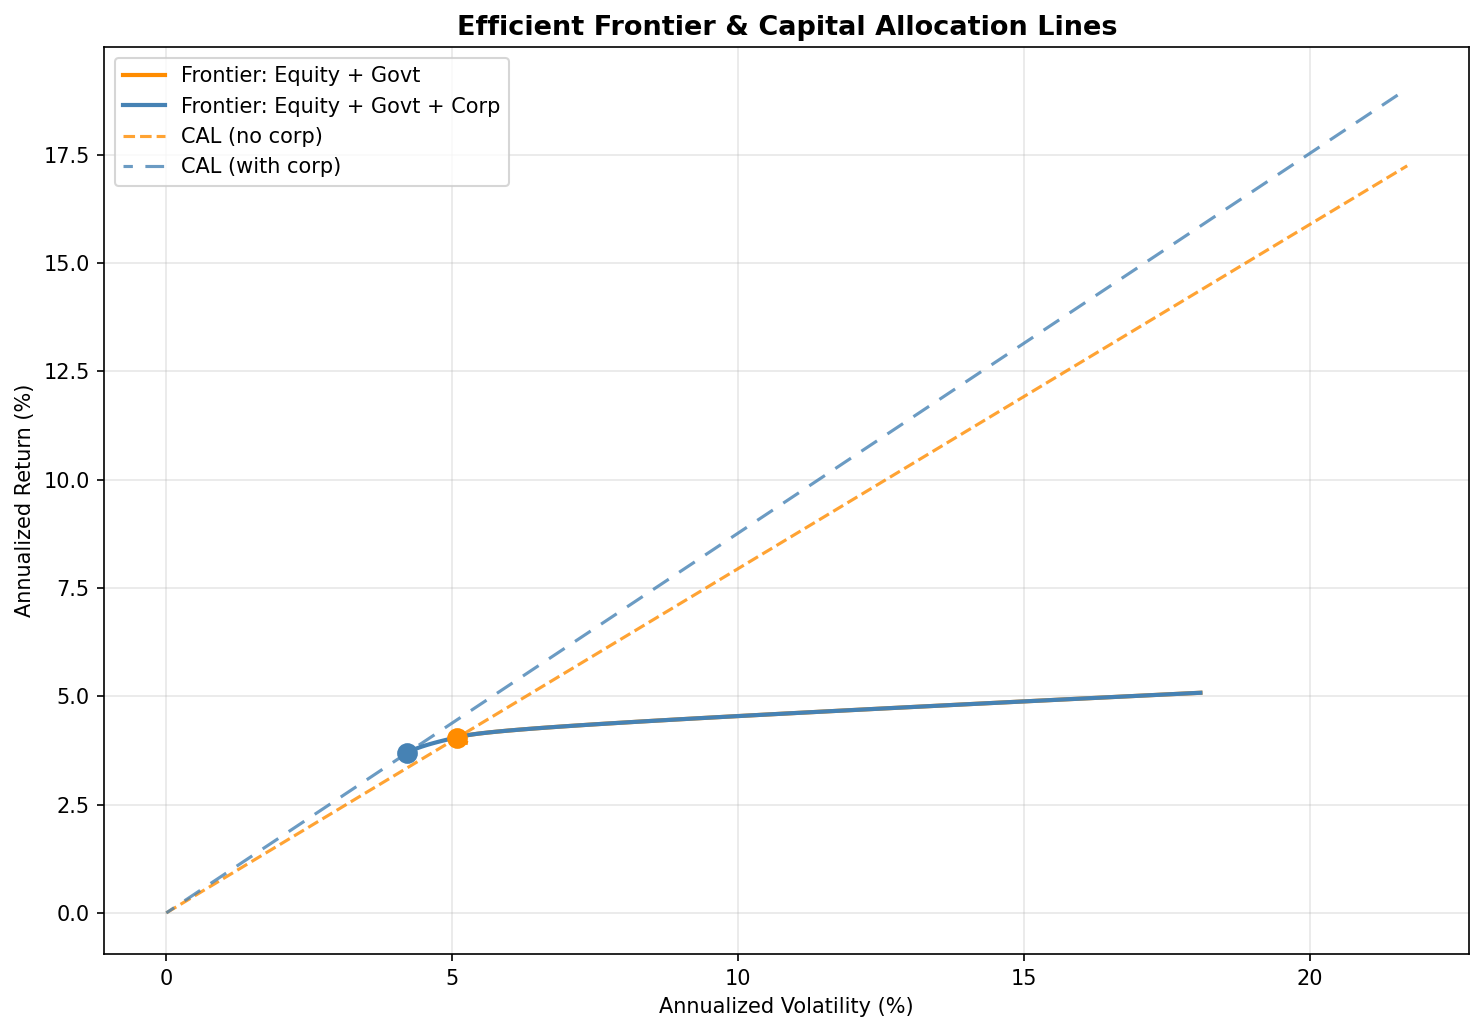
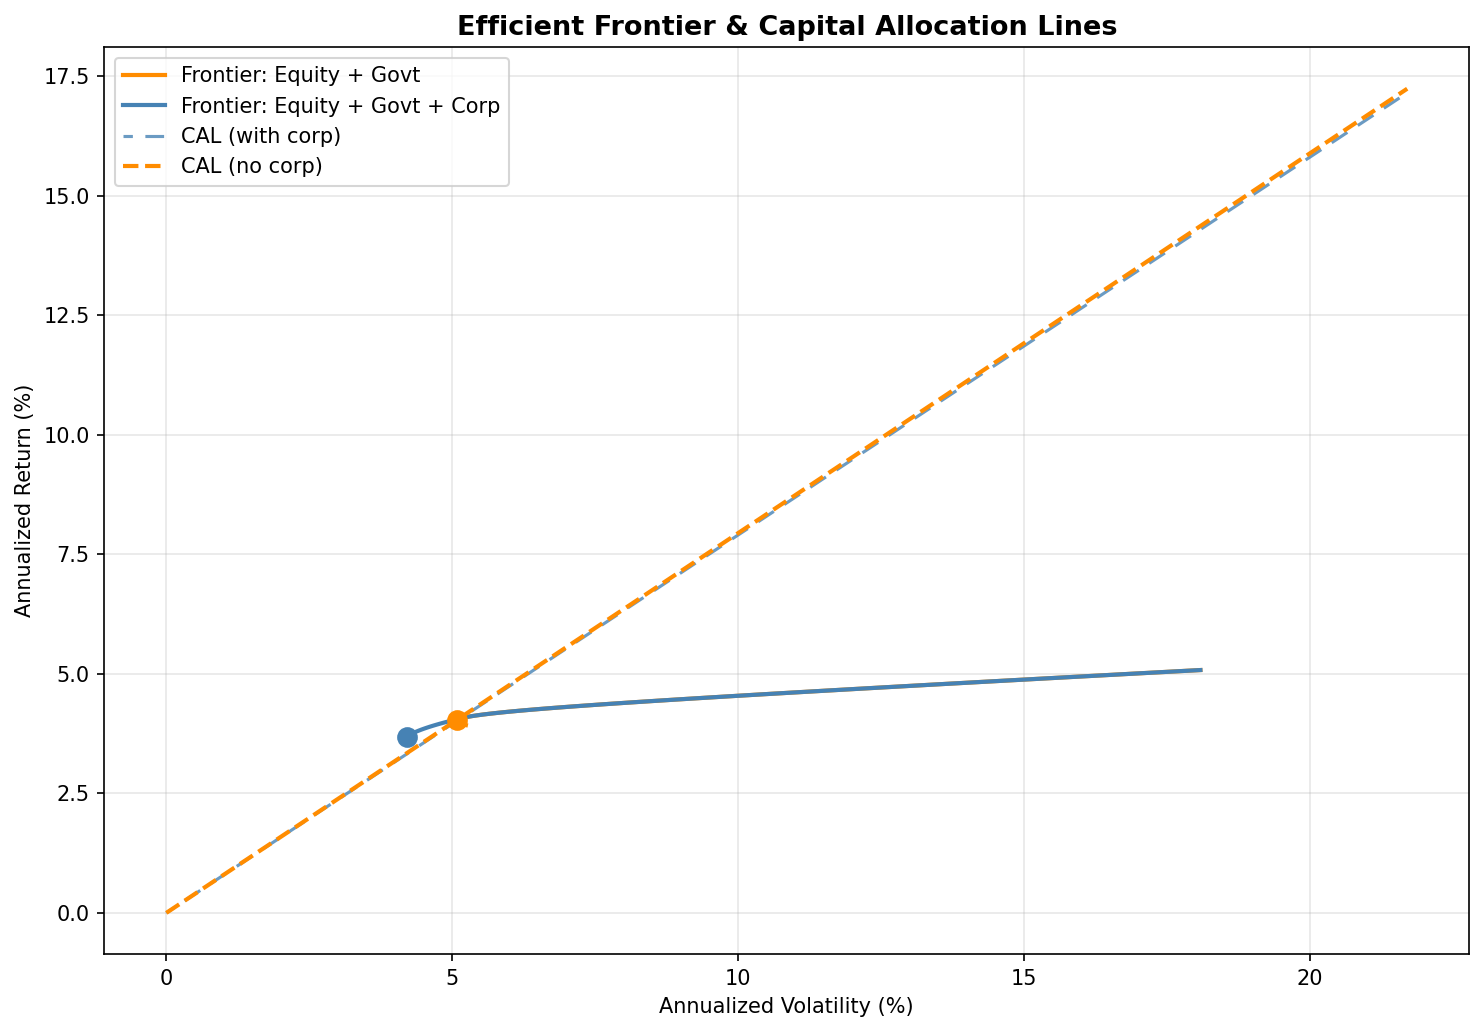
updated

diff --git a/src/Q5_equity_bond_portfolio.py b/src/Q5_equity_bond_portfolio.py
@@ -419,15 +419,15 @@ def extract_frontier(vols: np.ndarray, rets: np.ndarray) -> tuple:
     frontier = pd.DataFrame(frontier)
     return frontier["vol"].values, frontier["ret"].values
 
+def compute_exact_frontier(returns, assets, start_date=None, n_points=100):
 
-def compute_exact_frontier(returns, include_corp=True, n_points=100):
+    r = returns[assets]
 
-    if include_corp:
-        assets = ["equity", "govt_mid", "corp_ig"]
-    else:
-        assets = ["equity", "govt_mid"]
+    if start_date is not None:
+        r = r.loc[start_date:]
 
-    r = returns[assets].dropna()
+    r = r.dropna()
+
     mu = r.mean() * 12
     Sigma = r.cov() * 12
 
@@ -445,46 +445,41 @@ def compute_exact_frontier(returns, include_corp=True, n_points=100):
     target_returns = np.linspace(mu.min(), mu.max(), n_points)
 
     vols, rets = [], []
-
     prev_w = np.ones(n) / n
 
     for target in target_returns:
-
         constraints = constraints_base + [
             {'type': 'eq', 'fun': lambda w, target=target: portfolio_ret(w) - target}
         ]
 
-        res = minimize(
-            portfolio_vol,
-            prev_w,
-            bounds=bounds,
-            constraints=constraints
-        )
+        res = minimize(portfolio_vol, prev_w, bounds=bounds, constraints=constraints)
 
         if res.success:
             w_opt = res.x
             vols.append(portfolio_vol(w_opt) * 100)
             rets.append(portfolio_ret(w_opt) * 100)
             prev_w = w_opt
-        else:
-            prev_w = np.ones(n) / n
 
     return np.array(vols), np.array(rets)
-
 
 def plot_efficient_frontier(returns: pd.DataFrame) -> plt.Figure:
     fig, ax = plt.subplots(figsize=(10, 7))
 
-    # ── Monte Carlo clouds ──
-    vols_no, rets_no = compute_frontier_points(returns, include_corp=False)
-    vols_yes, rets_yes = compute_frontier_points(returns, include_corp=True)
+    # ✅ ADD THIS
+    common = returns[["equity", "govt_mid", "corp_ig"]].dropna()
+
+    # Monte Carlo
+    vols_no, rets_no = compute_frontier_points(common, include_corp=False)
+    vols_yes, rets_yes = compute_frontier_points(common, include_corp=True)
+
+    # Exact frontiers
+    fvols_no, frets_no = compute_exact_frontier(common, ["equity", "govt_mid"])
+    fvols_yes, frets_yes = compute_exact_frontier(common, ["equity", "govt_mid", "corp_ig"])
+
 
     ax.scatter(vols_no, rets_no, color="darkorange", alpha=0.05, s=3)
     ax.scatter(vols_yes, rets_yes, color="steelblue", alpha=0.08, s=4)
 
-    # ── Exact frontiers ──
-    fvols_no, frets_no = compute_exact_frontier(returns, include_corp=False)
-    fvols_yes, frets_yes = compute_exact_frontier(returns, include_corp=True)
 
     # Smooth
     frets_yes = savgol_filter(frets_yes, 11, 3)
@@ -718,11 +713,14 @@ def plot_drawdown_all(bond_ports: pd.DataFrame,
 
 
 def plot_frontiers_and_cals(returns: pd.DataFrame, rf: float = 0.0) -> plt.Figure:
+
     fig, ax = plt.subplots(figsize=(10, 7))
 
-    # ── Frontiers ──
-    fvols_no, frets_no = compute_exact_frontier(returns, include_corp=False)
-    fvols_yes, frets_yes = compute_exact_frontier(returns, include_corp=True)
+    # ✅ ADD THIS
+    common = returns[["equity", "govt_mid", "corp_ig"]].dropna()
+
+    fvols_no, frets_no = compute_exact_frontier(common, ["equity", "govt_mid"])
+    fvols_yes, frets_yes = compute_exact_frontier(common, ["equity", "govt_mid", "corp_ig"])
 
     ax.plot(fvols_no, frets_no,
             color="darkorange", linewidth=2,
@@ -758,14 +756,15 @@ def plot_frontiers_and_cals(returns: pd.DataFrame, rf: float = 0.0) -> plt.Figur
     # ── CAL lines ──
     x = np.linspace(0, max(fvols_yes) * 1.2, 200)
 
-    ax.plot(x, (ret_no / vol_no) * x,
-            linestyle="--", color="darkorange", alpha=0.8,
-            label="CAL (no corp)")
-
-    ax.plot(x, (ret_yes / vol_yes) * x,
+    ax.plot(x, (ret_no / vol_no) * x * 0.995,
             linestyle=(3, (6, 4)),
             color="steelblue", alpha=0.8,
             label="CAL (with corp)")
+
+    ax.plot(x, (ret_no / vol_no) * x,
+            linestyle="--", color="darkorange", alpha=1.0,
+            linewidth=2,
+            label="CAL (no corp)")
 
     # ── Mark tangency points ──
     ax.scatter(vol_no, ret_no, color="darkorange", s=80, zorder=5)
